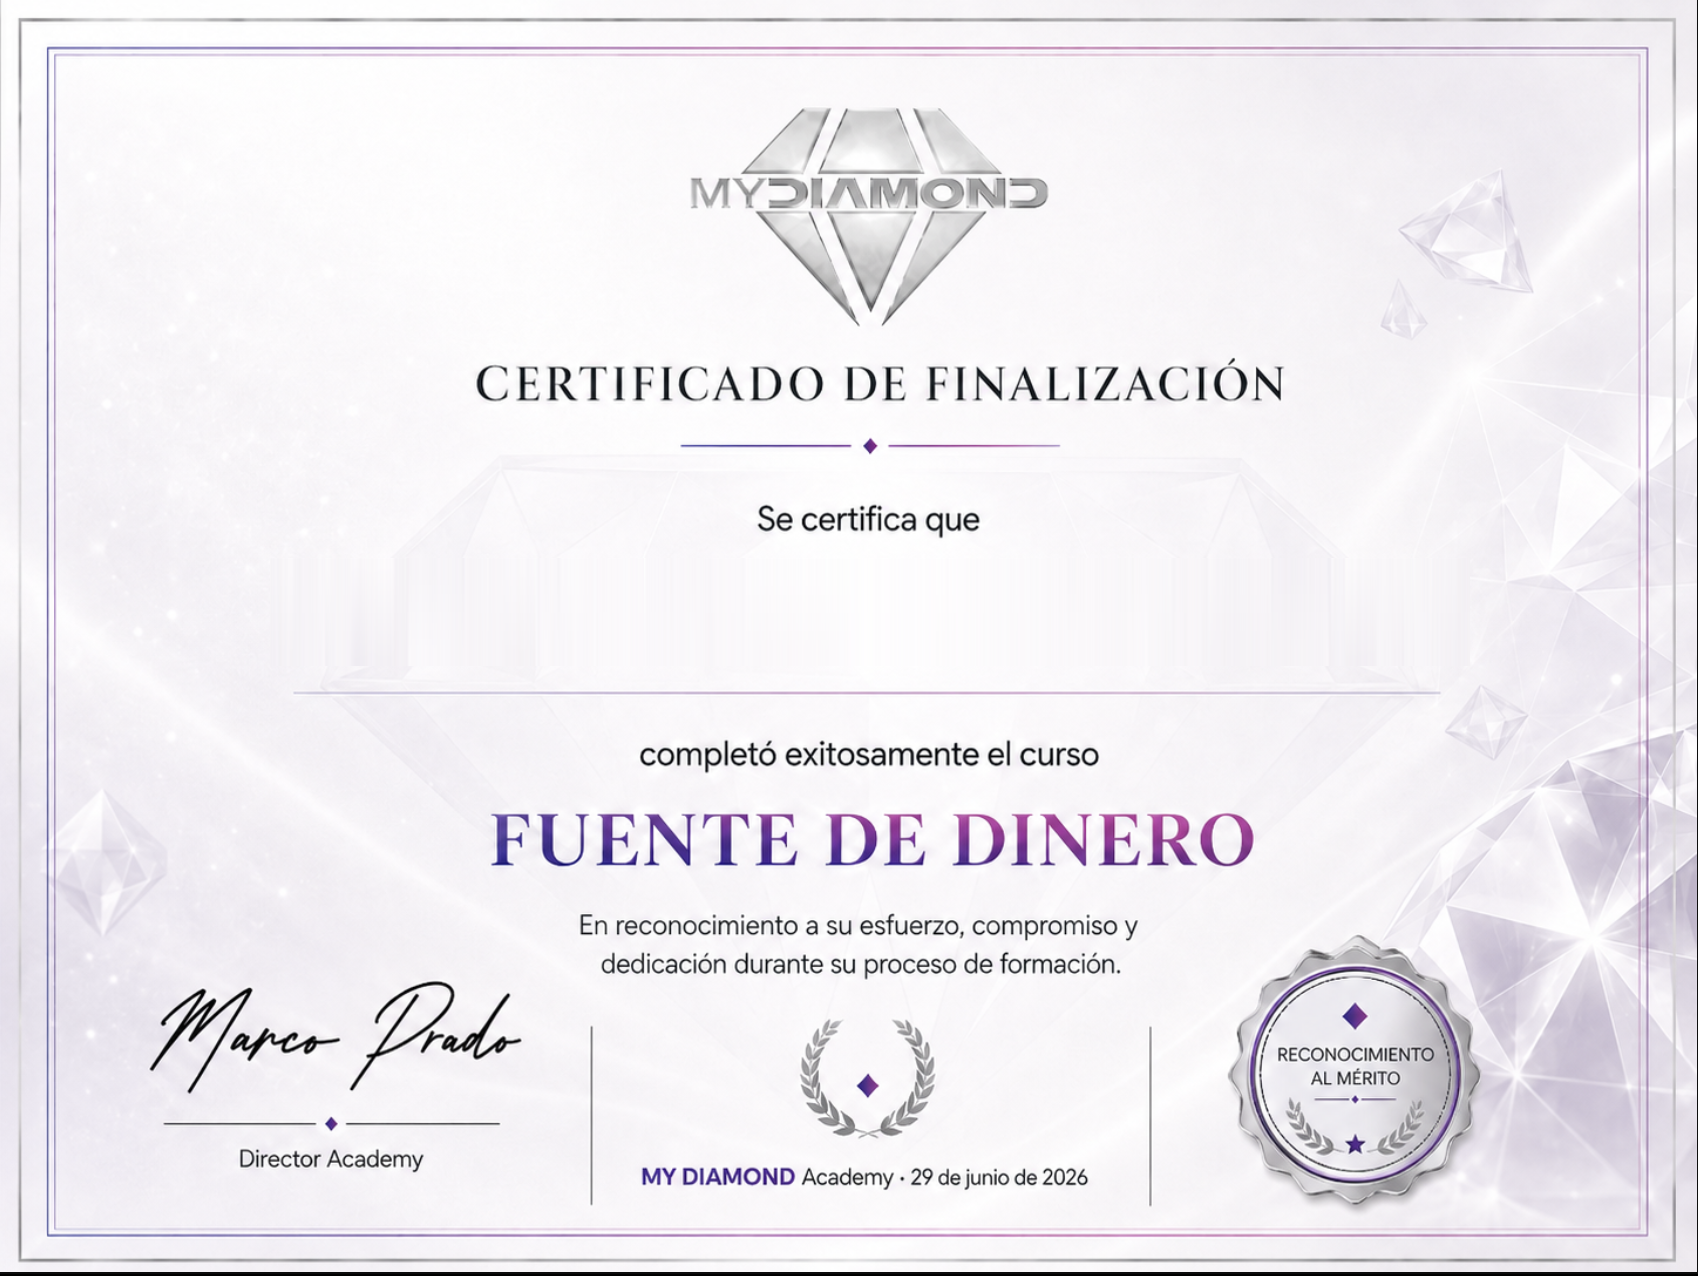
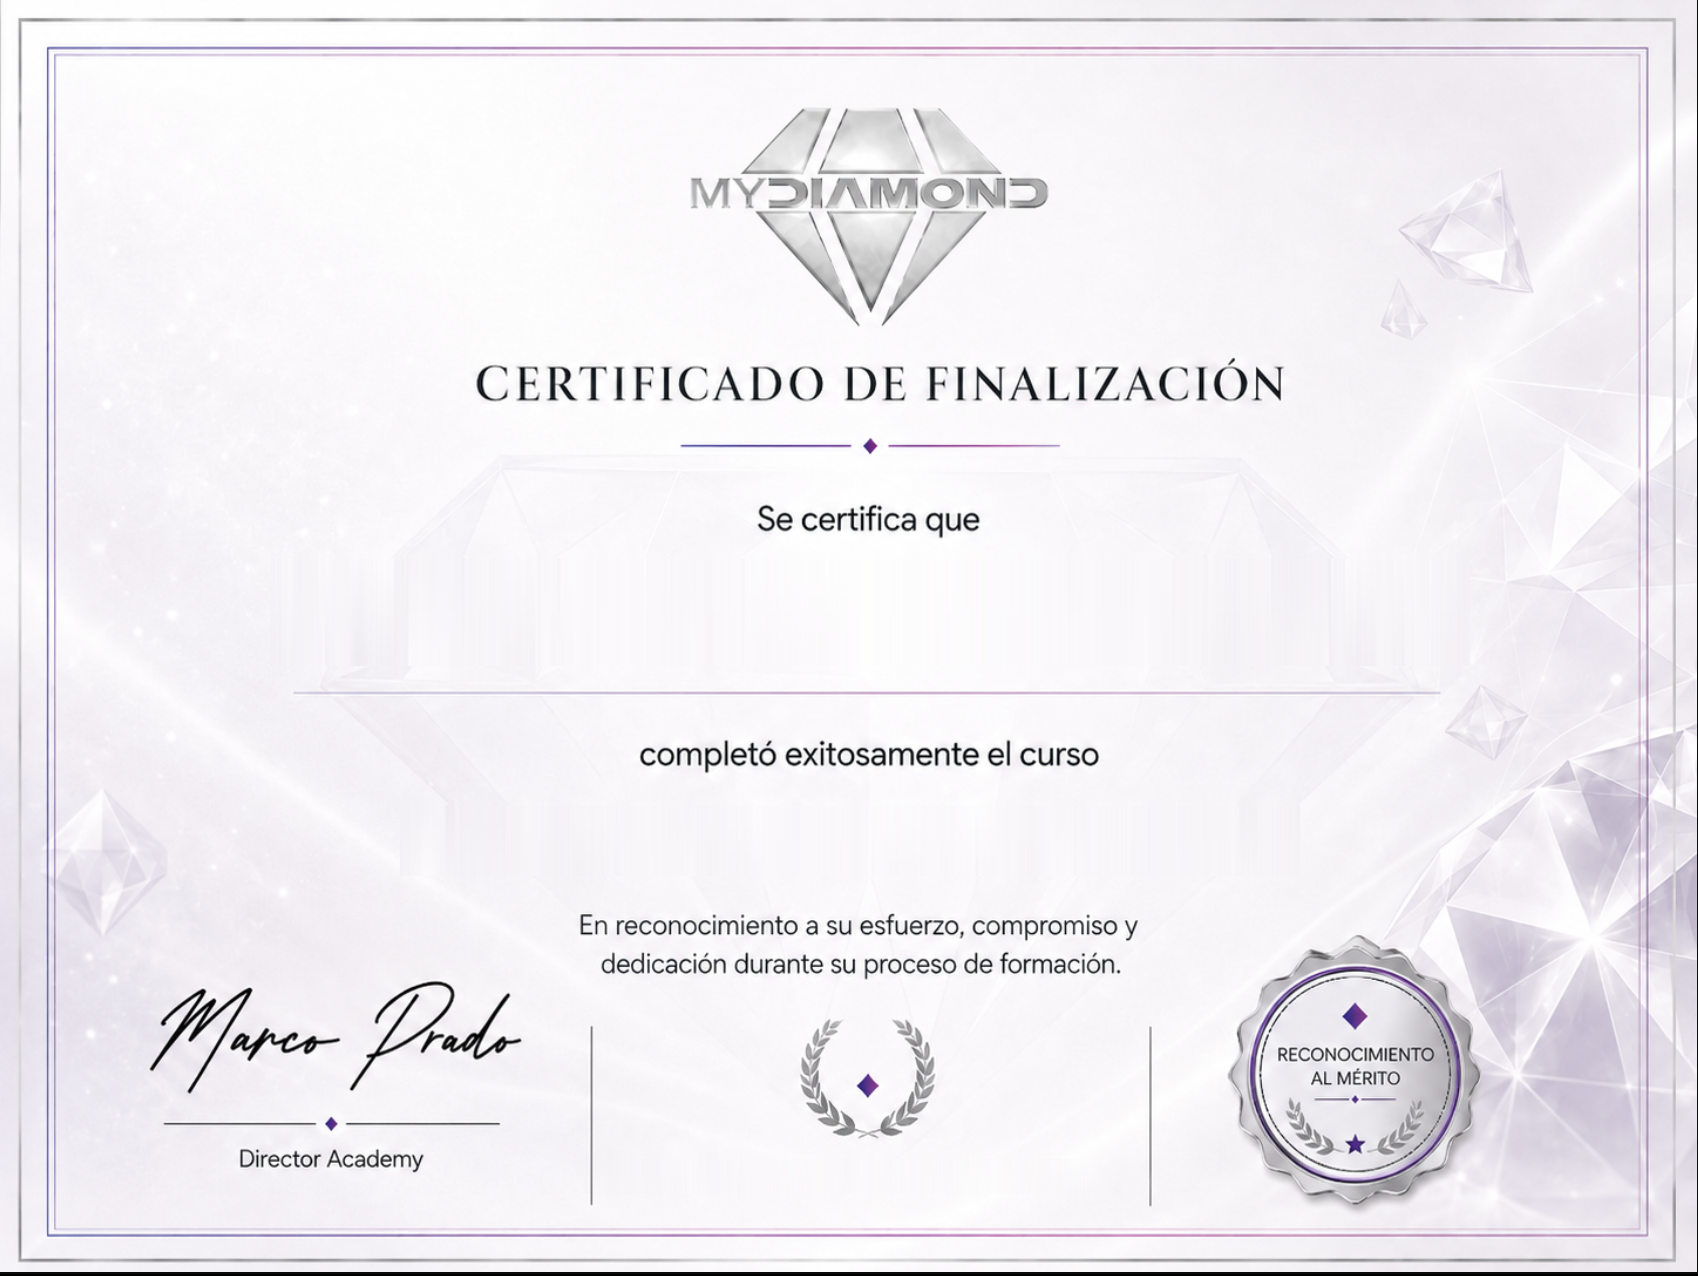
feat(academy): certificado con nombre + curso + fecha dinámicos
La plantilla ahora viene en blanco también en el curso y la fecha (removidos del
PNG). Al descargar se superponen los 3 datos dinámicos sobre la plantilla
oficial: nombre del alumno (serif), nombre del curso (gradiente morado→magenta
como la referencia, uppercase, auto-ajuste de tamaño) y la fecha de finalización
(línea "MY DIAMOND Academy · <fecha>" en es-ES, centrada). tsc verde.

Changed region(s): [[0.2809, 0.6418, 0.5306, 0.703], [0.5618, 0.6418, 0.7491, 0.703], [0.3746, 0.9169, 0.6555, 0.9475]]

diff --git a/src/app/dashboard/courses/[courseId]/page.tsx b/src/app/dashboard/courses/[courseId]/page.tsx
@@ -244,9 +244,9 @@ export default function CourseDetailPage() {
     reportProgress(player.id, 100, videoElRef.current ? Math.floor(videoElRef.current.currentTime) : undefined)
   }
 
-  // Genera y descarga el certificado: usa la plantilla oficial (imagen) y solo
-  // superpone el NOMBRE del alumno. Todo lo demás (diseño, curso, sello) viene
-  // de la imagen public/certificado-plantilla.png.
+  // Genera y descarga el certificado: dibuja la plantilla oficial (imagen) y
+  // superpone los datos dinámicos: NOMBRE del alumno, NOMBRE del curso y la
+  // FECHA de finalización. El resto del diseño viene de la imagen.
   async function downloadCertificate() {
     if (!course) return
     const tpl = new Image(); tpl.crossOrigin = 'anonymous'
@@ -256,15 +256,34 @@ export default function CourseDetailPage() {
     canvas.width = W; canvas.height = H
     const ctx = canvas.getContext('2d'); if (!ctx) return
     ctx.drawImage(tpl, 0, 0, W, H)
+    const FONT = 'Georgia, "Times New Roman", serif'
 
-    // Nombre del alumno, centrado donde va en la plantilla (x≈873, centro y≈614)
+    // 1) Nombre del alumno (centrado en x≈873, centro y≈614)
     const name = (course.viewerName || 'Alumno').trim()
-    ctx.textAlign = 'center'; ctx.textBaseline = 'middle'
-    ctx.fillStyle = '#14112A'
-    let size = 96
-    ctx.font = `bold ${size}px Georgia, "Times New Roman", serif`
-    while (ctx.measureText(name).width > 1180 && size > 44) { size -= 4; ctx.font = `bold ${size}px Georgia, "Times New Roman", serif` }
+    ctx.textAlign = 'center'; ctx.textBaseline = 'middle'; ctx.fillStyle = '#14112A'
+    let ns = 96; ctx.font = `bold ${ns}px ${FONT}`
+    while (ctx.measureText(name).width > 1180 && ns > 44) { ns -= 4; ctx.font = `bold ${ns}px ${FONT}` }
     ctx.fillText(name, 873, 614)
+
+    // 2) Nombre del curso (centrado en x≈843, centro y≈839) — gradiente morado→magenta
+    const title = course.title.toUpperCase()
+    let cs = 58; ctx.font = `bold ${cs}px ${FONT}`
+    while (ctx.measureText(title).width > 820 && cs > 28) { cs -= 3; ctx.font = `bold ${cs}px ${FONT}` }
+    const tw = ctx.measureText(title).width
+    const cgrad = ctx.createLinearGradient(843 - tw / 2, 0, 843 + tw / 2, 0)
+    cgrad.addColorStop(0, '#5E5096'); cgrad.addColorStop(1, '#9E478E')
+    ctx.fillStyle = cgrad
+    ctx.fillText(title, 843, 839)
+
+    // 3) Fecha de finalización (línea inferior centrada en x≈838)
+    const dateStr = new Date().toLocaleDateString('es-ES', { year: 'numeric', month: 'long', day: 'numeric' })
+    const p1 = 'MY DIAMOND', p2 = ` Academy · ${dateStr}`
+    ctx.textAlign = 'left'; ctx.textBaseline = 'top'
+    ctx.font = `bold 30px ${FONT}`; const w1 = ctx.measureText(p1).width
+    ctx.font = `30px ${FONT}`; const w2 = ctx.measureText(p2).width
+    const dsx = 838 - (w1 + w2) / 2
+    ctx.font = `bold 30px ${FONT}`; ctx.fillStyle = '#3B2C7A'; ctx.fillText(p1, dsx, 1168)
+    ctx.font = `30px ${FONT}`; ctx.fillStyle = '#555562'; ctx.fillText(p2, dsx + w1, 1168)
 
     const a = document.createElement('a')
     a.href = canvas.toDataURL('image/png')
